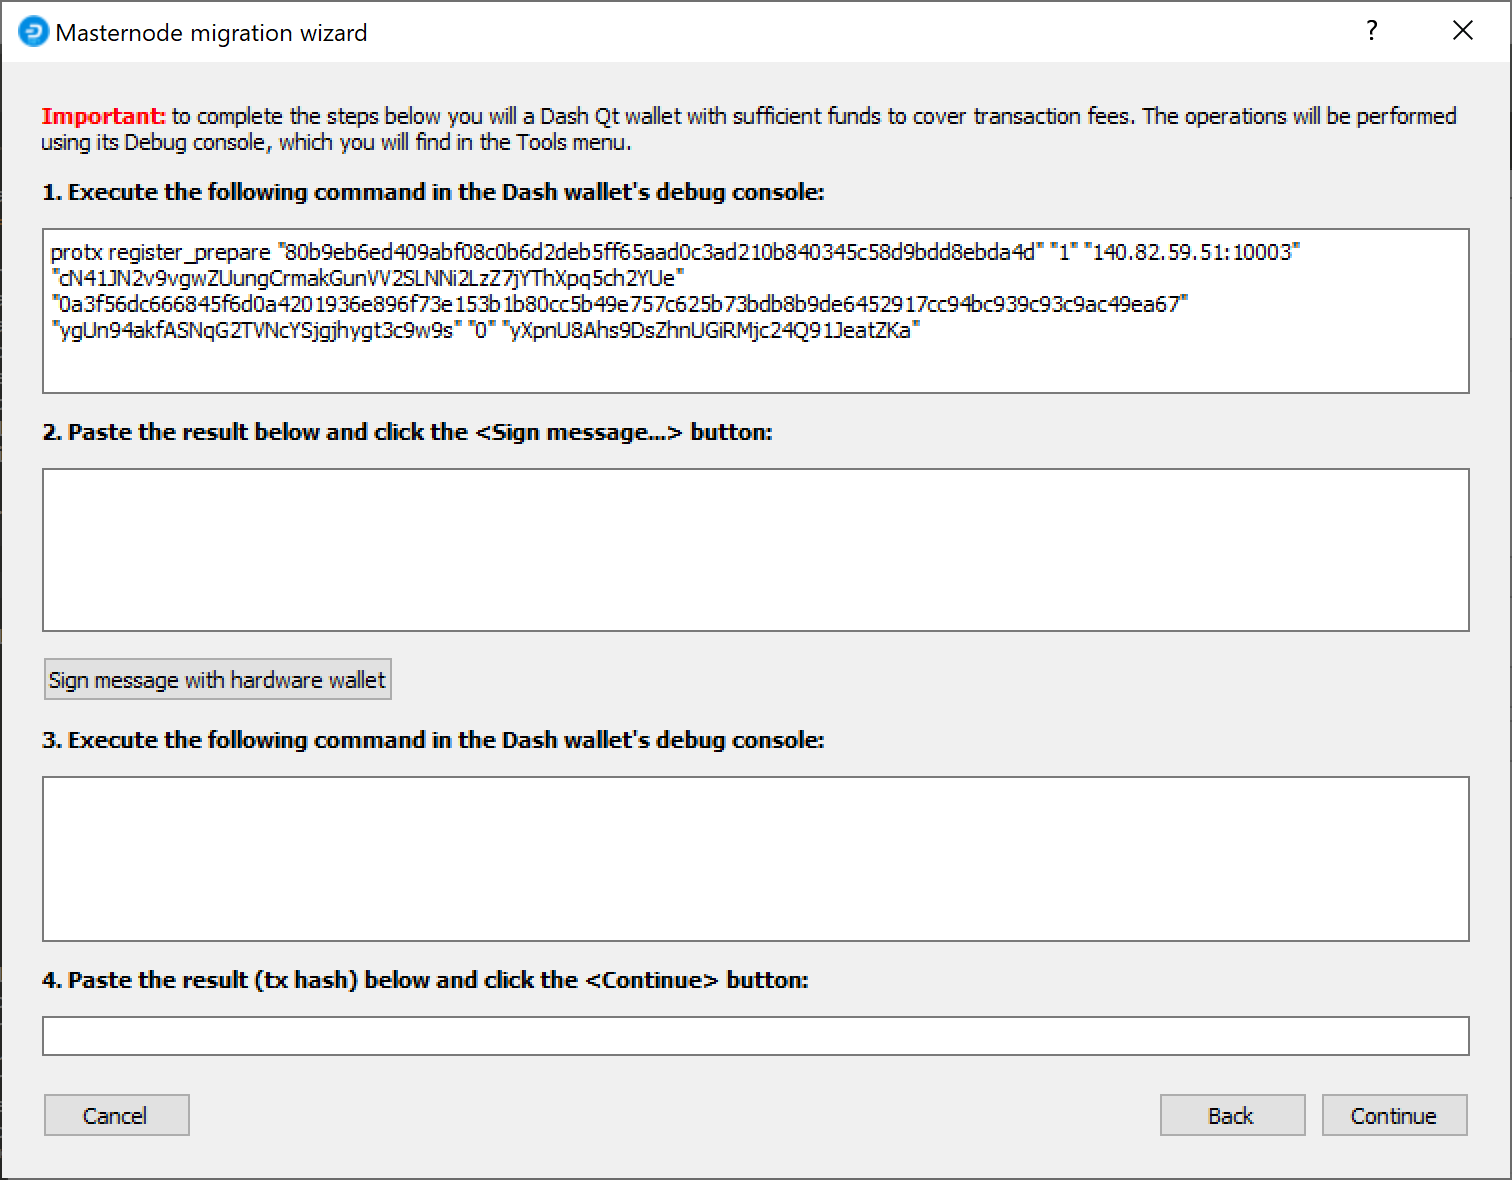
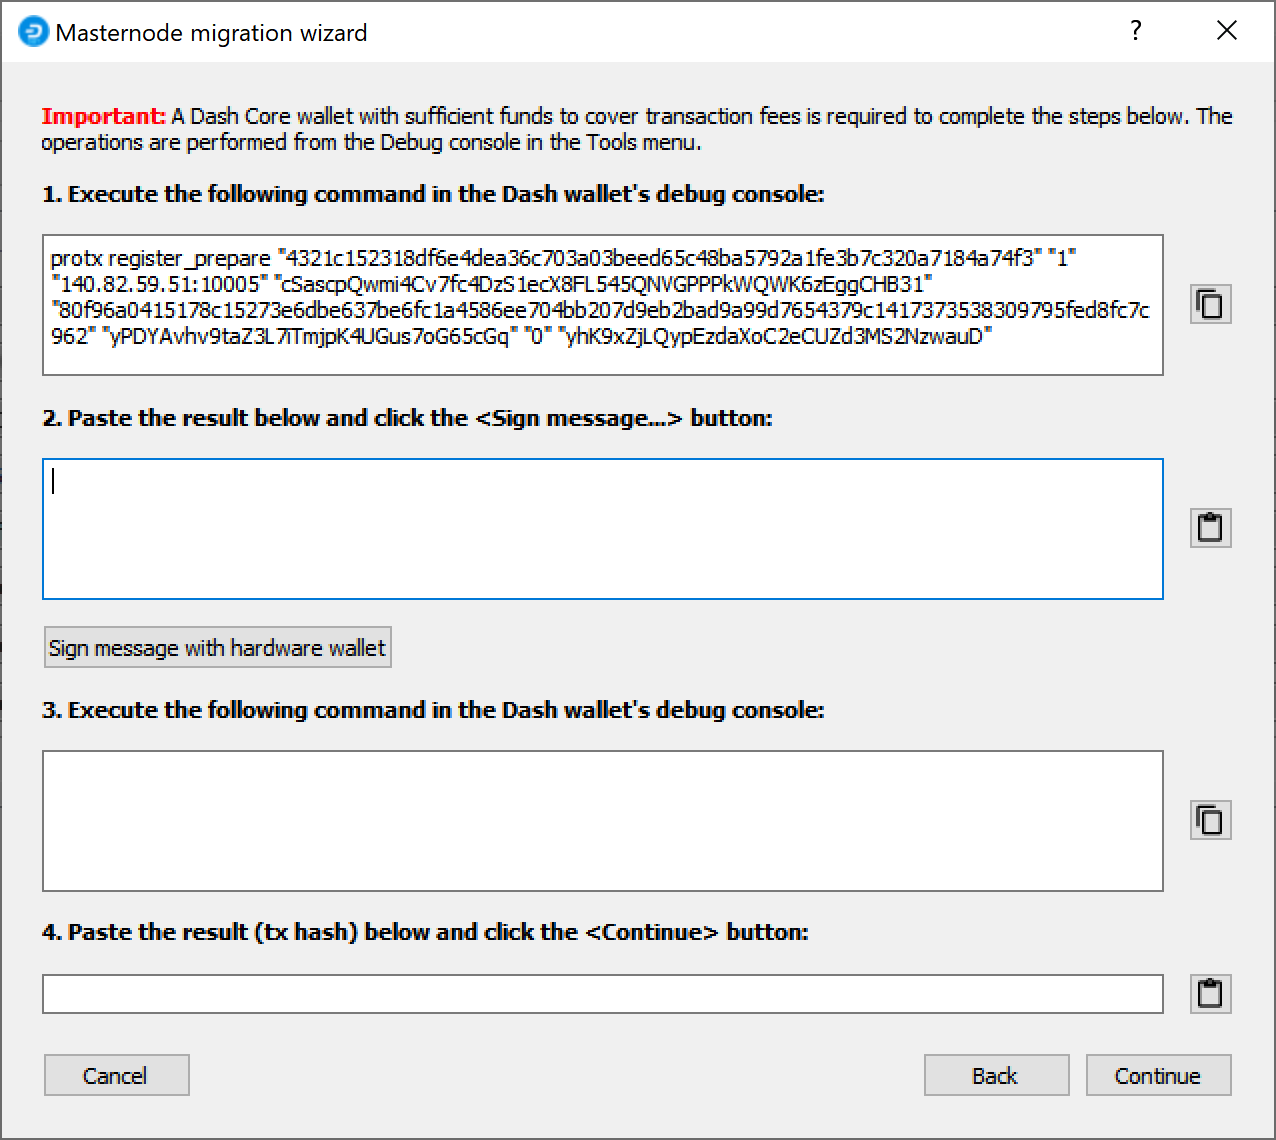
DMT updates

diff --git a/masternodes/dip3-upgrade.rst b/masternodes/dip3-upgrade.rst
@@ -125,7 +125,7 @@ Open DMT and ensure your existing masternode configuration appears.
 Configuration
 -------------
 
-Click the **Migrate to DMN** button to get started. The **Masternode
+Click the **Send ProRegTx** button to get started. The **Masternode
 migration wizard** appears.
 
 .. figure:: img/dmt-dip3-wizard.png
@@ -175,7 +175,8 @@ on the blockchain immediately. A window appears with the final
 configuration information. Click **Save to a file** and enter a new file
 name. This file contains various private and public keys related to the
 ownership, operation and voting for the masternode, so keep it in a
-secure location.
+secure location. Continue below with the :ref:`final step 
+<DMT-enter-BLS>`of entering the BLS key on the masternode.
 
 Option 2: Manual method
 -----------------------
@@ -206,6 +207,8 @@ A window appears with the final configuration information. Click **Save
 to a file** and enter a new file name. This file contains various
 private and public keys related to the ownership, operation and voting
 for the masternode, so keep it in a secure location.
+
+.. _DMT-enter-BLS:
 
 Enter the BLS key on the masternode
 -----------------------------------
